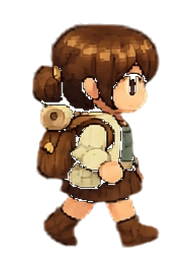
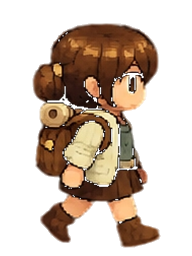
fix(player): emphasize horizontal walking frames
优化角色左右移动时的脚步动画表现。将右走帧由左走帧镜像生成，并为左右方向设置更明显的播放序列和落脚帧，使短距离移动时左右脚切换更加清晰。

diff --git a/web/game.js b/web/game.js
@@ -51,6 +51,18 @@ const playerFrames = {
     ]
 };
 
+const playerFrameSequences = {
+    north: [0, 1, 2, 3, 4],
+    south: [0, 1, 2, 3, 4],
+    west: [1, 3, 4, 2, 0],
+    east: [1, 3, 4, 2, 0]
+};
+
+const playerIdleSequenceIndexes = {
+    west: 3,
+    east: 3
+};
+
 const rooms = {
     campus_gate: {
         title: "校园入口",
@@ -1729,7 +1741,9 @@ async function showTeleportDialog() {
 
 function setPlayerFrame(direction, frameIndex) {
     const frames = playerFrames[direction] || playerFrames.south;
-    $("player-token").style.backgroundImage = `url("${frames[frameIndex % frames.length]}")`;
+    const sequence = playerFrameSequences[direction] || playerFrameSequences.south;
+    const frameNumber = sequence[frameIndex % sequence.length];
+    $("player-token").style.backgroundImage = `url("${frames[frameNumber % frames.length]}")`;
 }
 
 function startPlayerStep(direction) {
@@ -1752,7 +1766,7 @@ function stopPlayerStep(direction) {
     window.clearInterval(playerAnimationTimer);
     playerAnimationTimer = null;
     $("player-token").classList.remove("walking");
-    setPlayerFrame(direction || "south", 0);
+    setPlayerFrame(direction || "south", playerIdleSequenceIndexes[direction] || 0);
 }
 
 async function submitCommand(presetCommand) {
